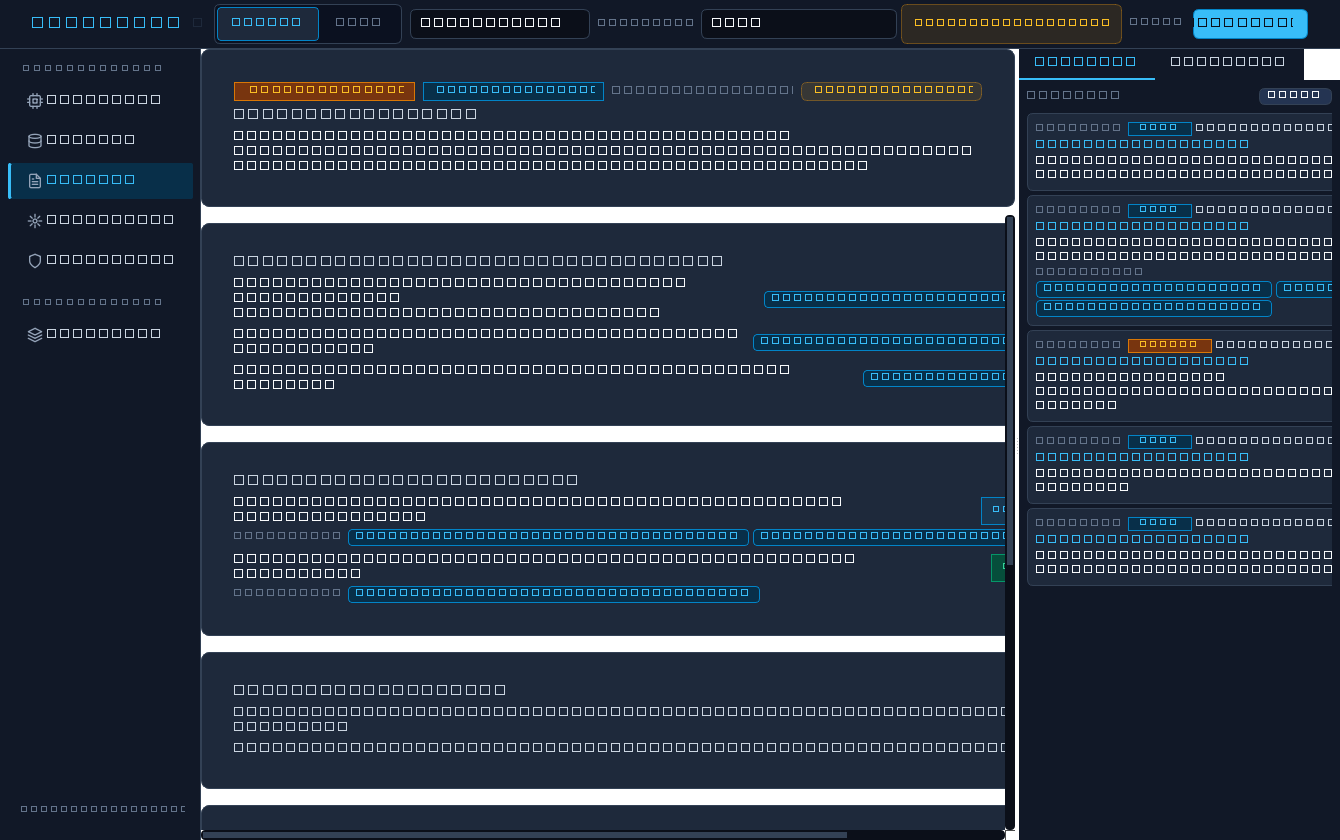
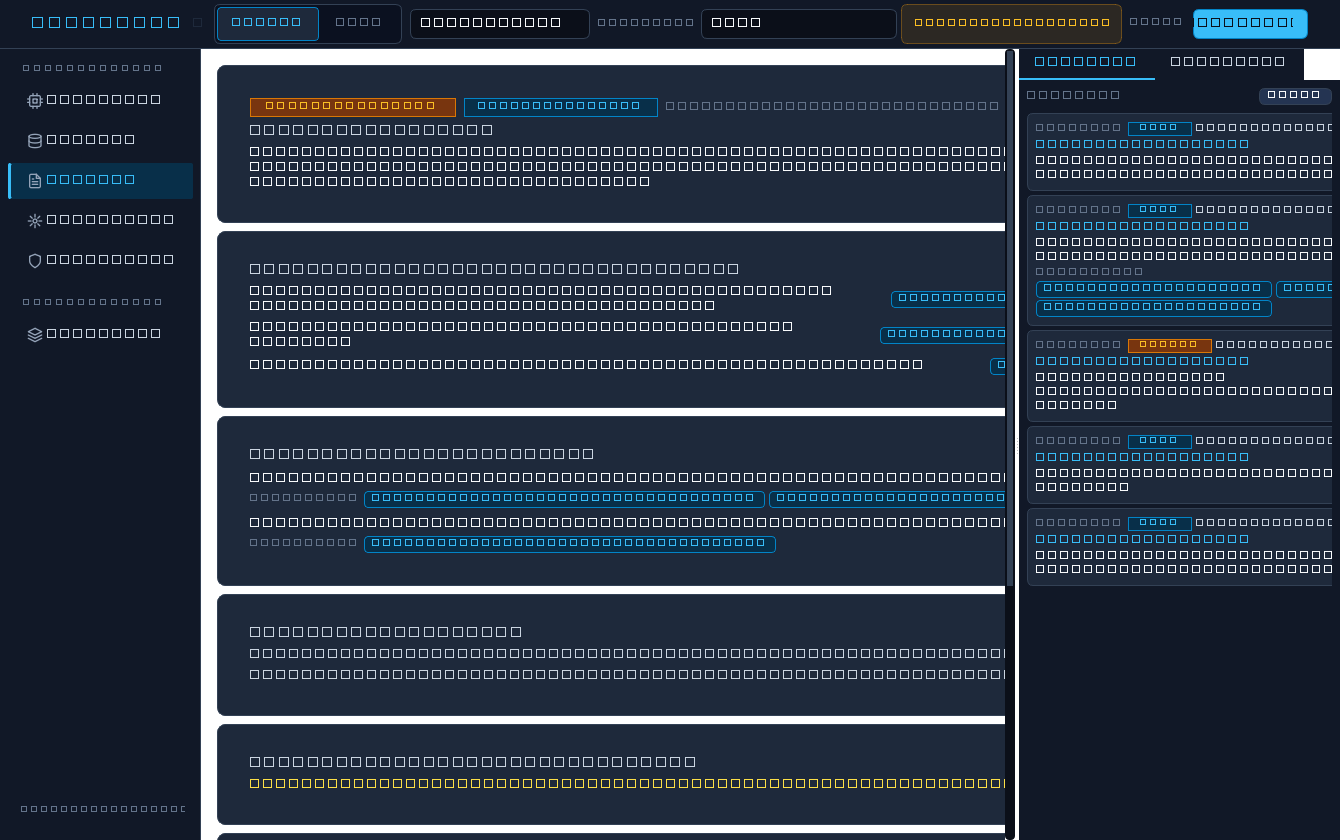
fix(ui): apply standard 16px side margins and tighten card gaps on reports view

Changed region(s): [[0.153, 0.031, 0.7649, 1.0]]

diff --git a/src/moonlight/ui/review.py b/src/moonlight/ui/review.py
@@ -164,10 +164,19 @@ class ReportReviewWidget(QWidget):
 
     def _create_report_page(self) -> QWidget:
         """Create populated report cards container with top alignment."""
-        page = QWidget()
-        page_layout = QVBoxLayout(page)
-        page_layout.setContentsMargins(0, 0, 0, 0)
-        page_layout.setSpacing(SPACING.sm)
+        scroll = QScrollArea()
+        scroll.setObjectName("report_scroll_area")
+        scroll.setWidgetResizable(True)
+        scroll.setFrameShape(QFrame.Shape.NoFrame)
+        scroll.setHorizontalScrollBarPolicy(Qt.ScrollBarPolicy.ScrollBarAlwaysOff)
+
+        self.sections_container = QWidget()
+        self.sections_layout = QVBoxLayout(self.sections_container)
+        self.sections_layout.setContentsMargins(
+            SPACING.md, SPACING.md, SPACING.md, SPACING.md
+        )
+        self.sections_layout.setSpacing(SPACING.sm)
+        self.sections_layout.setAlignment(Qt.AlignmentFlag.AlignTop)
 
         # Header card with risk tier, provider info, and placeholder badges
         self.header_card = QFrame()
@@ -226,23 +235,10 @@ class ReportReviewWidget(QWidget):
         )
         header_layout.addWidget(self.summary_label)
 
-        page_layout.addWidget(self.header_card)
-
-        # Scrollable sections for facts, hypotheses, actions (top-aligned)
-        scroll = QScrollArea()
-        scroll.setWidgetResizable(True)
-        scroll.setFrameShape(QFrame.Shape.NoFrame)
-
-        self.sections_container = QWidget()
-        self.sections_layout = QVBoxLayout(self.sections_container)
-        self.sections_layout.setContentsMargins(0, SPACING.sm, 0, 0)
-        self.sections_layout.setSpacing(SPACING.md)
-        self.sections_layout.setAlignment(Qt.AlignmentFlag.AlignTop)
+        self.sections_layout.addWidget(self.header_card)
 
         scroll.setWidget(self.sections_container)
-        page_layout.addWidget(scroll, stretch=1)
-
-        return page
+        return scroll
 
     @property
     def report(self) -> Report | None:
@@ -298,13 +294,18 @@ class ReportReviewWidget(QWidget):
 
     def _rebuild_sections(self, report: Report) -> None:
         """Populate facts, hypotheses, actions, explanations cards."""
-        # Clear previous widgets in sections layout
-        while self.sections_layout.count() > 0:
-            layout_item = self.sections_layout.takeAt(0)
-            if layout_item is not None:
-                widget = layout_item.widget()
-                if widget is not None:
-                    widget.deleteLater()
+        # Clear previous dynamic section cards, preserving self.header_card
+        for i in reversed(range(self.sections_layout.count())):
+            layout_item = self.sections_layout.itemAt(i)
+            if layout_item is None:
+                continue
+            w = layout_item.widget()
+            if w is not None:
+                if w is not self.header_card:
+                    self.sections_layout.removeWidget(w)
+                    w.deleteLater()
+            elif layout_item.spacerItem() is not None:
+                self.sections_layout.takeAt(i)
 
         # Observed Facts Card
         if report.observed_facts:
